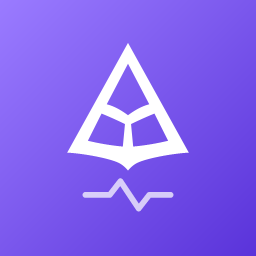
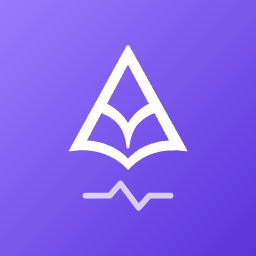
Use the real sigil artwork for the mark instead of a redraw
The previous commit approximated the sigil by hand from a screenshot, which
got the proportions wrong — strokes too heavy, the kite short of a diamond,
the bottom sweep not concave enough. This traces the supplied 1024x1024
artwork instead: threshold its alpha, follow the pixel cracks into closed
loops, simplify to within a pixel, then scale (never stretch) into the mark
box. The result is the logo itself, not an interpretation of it — the sigil
in the generated 512 icon overlaps the source artwork with an IoU of 0.978,
the shortfall being the one-pixel antialiasing band along its perimeter.

The geometry is now plain point loops rather than bezier path data, so the
component builds its `d` from them and the rasteriser scans them directly.
That drops the SVG path parser from generate-icons.mjs entirely.

The pulse line under the sigil is unchanged in spirit — narrower than the
sigil, thin stroke, 72% white — just repositioned for the true silhouette.

Claude-Session: https://claude.ai/code/session_01Hzeoj8VtzPPgasoiHyPLpc

diff --git a/src/components/arcane-mark.tsx b/src/components/arcane-mark.tsx
@@ -3,7 +3,7 @@ import {
   PULSE_OPACITY,
   PULSE_POINTS,
   PULSE_STROKE,
-  SIGIL_PATH,
+  sigilPath,
 } from "@/lib/mark.mjs";
 
 /** The Arcane mark: the sigil with the tracker pulse line under it. Draws in
@@ -19,7 +19,7 @@ export function ArcaneMark({ className }: { className?: string }) {
       focusable="false"
     >
       <path
-        d={SIGIL_PATH.join(" ")}
+        d={sigilPath()}
         fill="currentColor"
         fillRule="evenodd"
         clipRule="evenodd"
